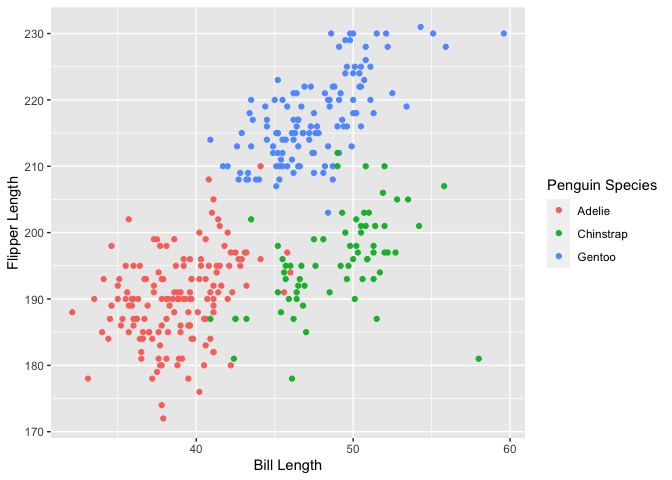
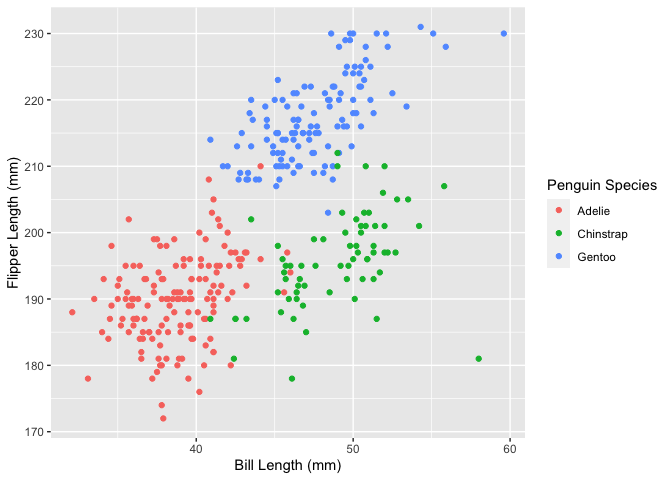
I created a new data frame and added units to my scatterplot x and y axes.

Changed region(s): [[0.3438, 0.9375, 0.5, 1.0], [0.0, 0.3125, 0.0312, 0.5938]]

diff --git a/p8105_hw1_rs4390.md b/p8105_hw1_rs4390.md
@@ -28,3 +28,43 @@ length of the dataset is 201 mm.
 ![](p8105_hw1_rs4390_files/figure-gfm/scatterplot-1.png)<!-- -->
 
     ## Warning: Removed 2 rows containing missing values (geom_point).
+
+# Problem 2
+
+## New data frame
+
+``` r
+hw1_df = 
+  hw1_df = tibble(
+    norm_samp = rnorm(10), 
+    norm_samp_pos = norm_samp > 0, 
+    var_char = c("A", "B", "C", "D", "E", "F", "G", "H", "I", "J"),
+    var_factor = factor(c("male", "female", "nonbinary", "male", "male", "nonbinary", "male", "male", "female", "nonbinary")),
+  )
+
+x <- c("A", "B", "C", "D", "E", "F", "G", "H", "I", "J")
+vectorLength = length(x)
+cat("Length of vector x is :", vectorLength)
+```
+
+    ## Length of vector x is : 10
+
+``` r
+y <- c("male", "female", "nonbinary", "male", "male", "nonbinary", "male", "male", "female", "nonbinary")
+vectorLength = length(y)
+cat("Length of vector y is :", vectorLength)
+```
+
+    ## Length of vector y is : 10
+
+I created a data frame comprised of:
+
+-   a random sample of size 10 from a standard Normal distribution with
+    `rnorm`
+-   a logical vector indicating whether elements of the sample are
+    greater than 0 with `norm_samp_pos`
+-   a character vector of length 10 with `var_char`
+-   a factor vector of length 10, with 3 different factor “levels” with
+    `var_factor`
+
+## Taking mean of each variable
